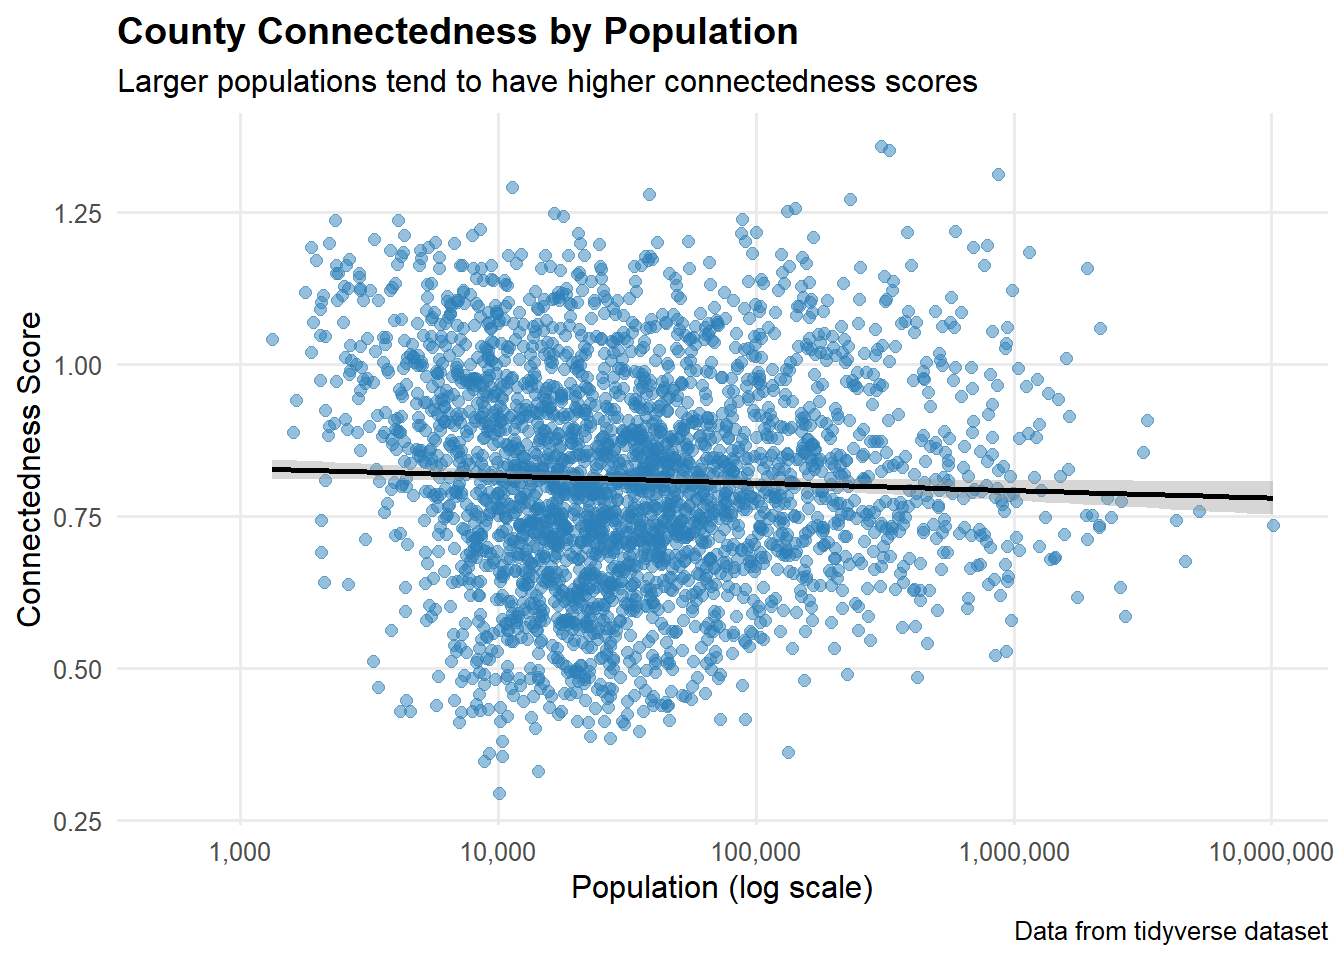
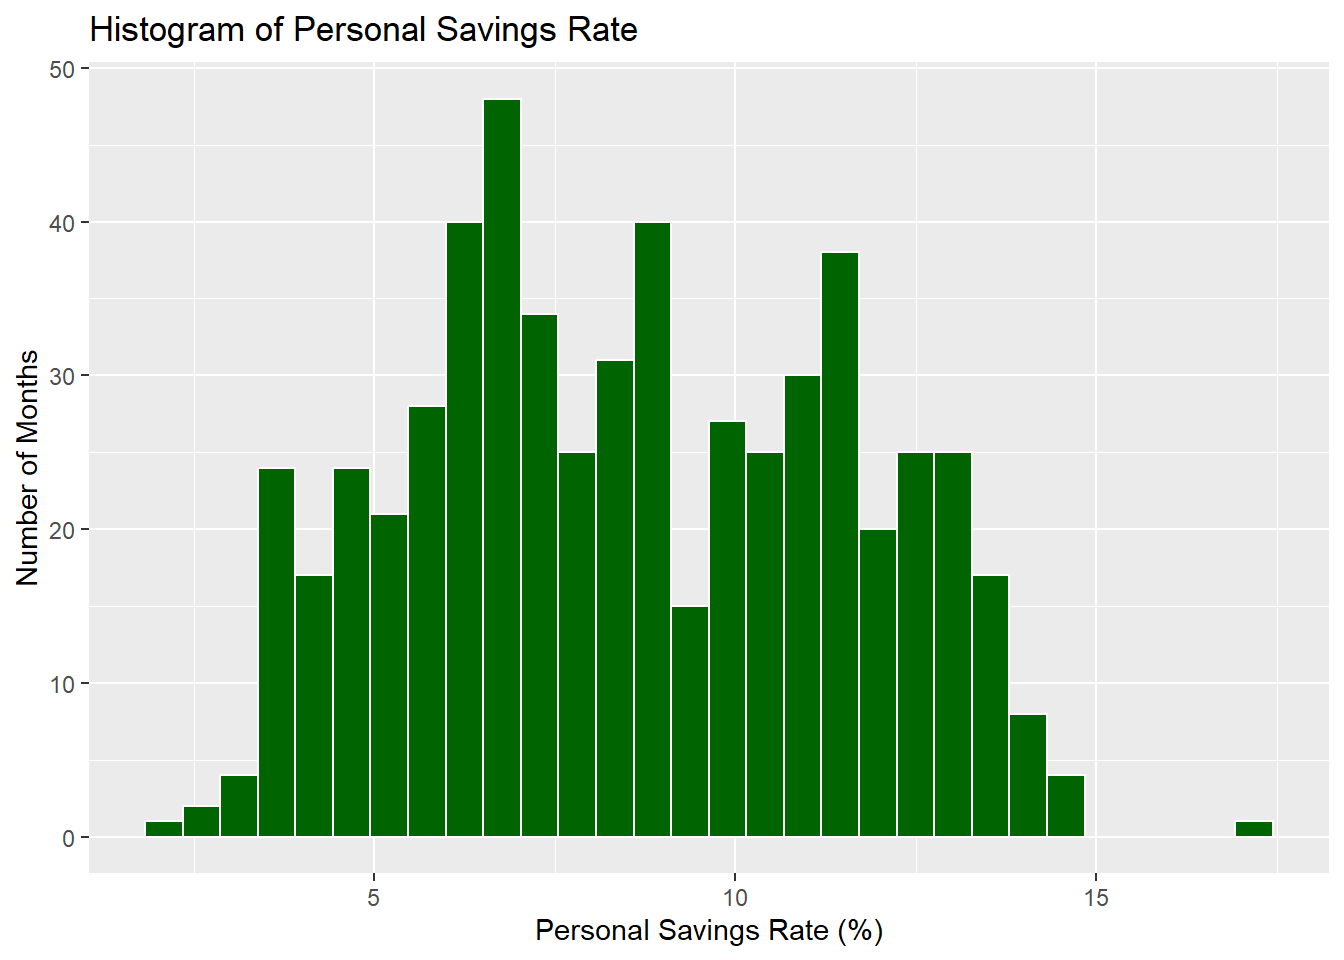
Built site for gh-pages

diff --git a/ec.html b/ec.html
@@ -72,6 +72,15 @@ ul.task-list li input[type="checkbox"] {
 </div>
 </div>
 </div>
+<div class="cell">
+<div class="cell-output-display">
+<div>
+<figure class="figure">
+<p><img src="ec_files/figure-html/unnamed-chunk-3-1.png" class="img-fluid figure-img" width="672"></p>
+</figure>
+</div>
+</div>
+</div>
 
 </main>
 <!-- /main column -->

diff --git a/index.html b/index.html
@@ -72,6 +72,15 @@ ul.task-list li input[type="checkbox"] {
 </div>
 </div>
 </div>
+<div class="cell">
+<div class="cell-output-display">
+<div>
+<figure class="figure">
+<p><img src="ec_files/figure-html/unnamed-chunk-3-1.png" class="img-fluid figure-img" width="672"></p>
+</figure>
+</div>
+</div>
+</div>
 
 </main>
 <!-- /main column -->
